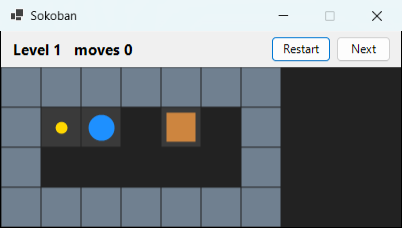
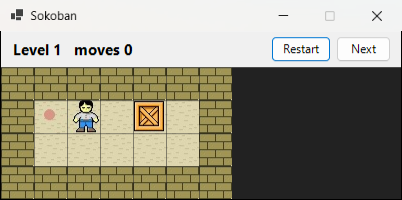
Sokoban: the squares are the pictures of ring/applications/sokoban (empty, wall, player, door, box, box on door; 33 pixels each); checks; new screenshot

diff --git a/docs/gallery-apps.html b/docs/gallery-apps.html
@@ -3626,7 +3626,7 @@ newGame()
 	<span class="k">else</span>
 		oInfo.Text = <span class="s">"Game over - score "</span> + nScore + <span class="s">" (Space = new game)"</span>
 	<span class="k">ok</span>
-	oCanvas.<span class="f">show</span>()</code></pre></div></details></div></div><div class="item" id="sokoban"><div class="pic"><img src="img/shots/app-Sokoban.png" alt="Sokoban" loading="lazy"></div><div class="info"><h3>Sokoban</h3><p>Sokoban - push every box onto a target with the arrow keys (a port of ring/applications/sokoban) # wall   @ player   $ box   . target   * box on a target   + player on a target</p><div class="run"><code>cd samples/UsingDotNet/applications/Sokoban  then  ring Sokoban.ring</code></div><details><summary>Source code</summary><div class="code"><div class="bar"><span class="dots"><i></i><i></i><i></i></span><span>Ring</span><button class="copy" type="button">Copy</button></div><pre><code><span class="c"># Sokoban - push every box onto a target with the arrow keys (a port of ring/applications/sokoban)</span>
+	oCanvas.<span class="f">show</span>()</code></pre></div></details></div></div><div class="item" id="sokoban"><div class="pic"><img src="img/shots/app-Sokoban.png" alt="Sokoban" loading="lazy"></div><div class="info"><h3>Sokoban</h3><p>Sokoban - push every box onto a target with the arrow keys (a port of ring/applications/sokoban, with its pictures: the folder images) # wall   @ player   $ box   . target   * box on a target   + player on a target</p><div class="run"><code>cd samples/UsingDotNet/applications/Sokoban  then  ring Sokoban.ring</code></div><details><summary>Source code</summary><div class="code"><div class="bar"><span class="dots"><i></i><i></i><i></i></span><span>Ring</span><button class="copy" type="button">Copy</button></div><pre><code><span class="c"># Sokoban - push every box onto a target with the arrow keys (a port of ring/applications/sokoban, with its pictures: the folder images)</span>
 <span class="c">#   # wall   @ player   $ box   . target   * box on a target   + player on a target</span>
 
 <span class="k">load</span> <span class="s">"dotnet.ring"</span>
@@ -3636,7 +3636,7 @@ using {
 	<span class="s">"System.Windows.Forms"</span>
 }
 
-C_CELL = <span class="n">40</span>
+C_CELL = <span class="n">33</span>		<span class="c"># the size of the pictures in the folder images</span>
 
 aLevels = [
 	[<span class="s">"#######"</span>,
@@ -3663,7 +3663,9 @@ aMap = []		<span class="c"># list of strings</span>
 nPlayerColumn = <span class="n">0</span>
 nPlayerRow = <span class="n">0</span>
 nMoves = <span class="n">0</span>
+aImages = []		<span class="c"># [tile, picture] for every kind of square: loaded once</span>
 
+loadImages()
 oForm = <span class="f">uiForm</span>(<span class="s">"Sokoban"</span>,<span class="n">400</span>,<span class="n">300</span>)
 oForm {
 	KeyPreview = <span class="k">True</span>
@@ -3682,6 +3684,28 @@ loadLevel(<span class="n">1</span>)
 <span class="f">uiRun</span>(oForm)
 
 <span class="c"># --------------------------------------------------------------------------</span>
+
+<span class="c"># the pictures are in the folder images next to the program</span>
+<span class="k">func</span> <span class="f">loadImages</span>
+
+	cFolder = <span class="s">""</span>
+	<span class="k">if</span> len(sysargv) &gt; <span class="n">1</span>
+		cScript = substr(sysargv[<span class="n">2</span>],<span class="s">"\\"</span>,<span class="s">"/"</span>)
+		<span class="k">for</span> nPos = len(cScript) <span class="k">to</span> <span class="n">1</span> <span class="k">step</span> -<span class="n">1</span>
+			<span class="k">if</span> cScript[nPos] = <span class="s">"/"</span>
+				cFolder = left(cScript,nPos)
+				<span class="k">exit</span>
+			<span class="k">ok</span>
+		<span class="k">next</span>
+	<span class="k">ok</span>
+	aImages = []
+	<span class="k">for</span> aTile <span class="k">in</span> [[<span class="s">" "</span>,<span class="s">"empty"</span>],[<span class="s">"#"</span>,<span class="s">"wall"</span>],[<span class="s">"@"</span>,<span class="s">"player"</span>],[<span class="s">"+"</span>,<span class="s">"player"</span>],[<span class="s">"."</span>,<span class="s">"door"</span>],[<span class="s">"$"</span>,<span class="s">"box"</span>],[<span class="s">"*"</span>,<span class="s">"boxondoor"</span>]]
+		aImages + [aTile[<span class="n">1</span>],<span class="k">new</span> <span class="t">Bitmap</span>(cFolder + <span class="s">"images/"</span> + aTile[<span class="n">2</span>] + <span class="s">".jpg"</span>,<span class="n">0</span>)]
+	<span class="k">next</span>
+
+<span class="k">func</span> <span class="f">imageOf</span> cTile
+
+	<span class="k">return</span> aImages[find(aImages,cTile,<span class="n">1</span>)][<span class="n">2</span>]
 
 <span class="k">func</span> <span class="f">loadLevel</span> nNumber
 
@@ -3813,24 +3837,7 @@ loadLevel(<span class="n">1</span>)
 	oCanvas.<span class="f">clear</span>(<span class="s">"#222222"</span>)
 	<span class="k">for</span> nRow = <span class="n">1</span> <span class="k">to</span> len(aMap)
 		<span class="k">for</span> nColumn = <span class="n">1</span> <span class="k">to</span> len(aMap[nRow])
-			nX = (nColumn - <span class="n">1</span>) * C_CELL
-			nY = (nRow - <span class="n">1</span>) * C_CELL
-			cTile = aMap[nRow][nColumn]
-			<span class="k">if</span> cTile = <span class="s">"#"</span>
-				oCanvas.<span class="f">fillRect</span>(nX,nY,C_CELL - <span class="n">1</span>,C_CELL - <span class="n">1</span>,<span class="s">"SlateGray"</span>)
-			<span class="k">but</span> cTile != <span class="s">" "</span>
-				oCanvas.<span class="f">fillRect</span>(nX,nY,C_CELL - <span class="n">1</span>,C_CELL - <span class="n">1</span>,<span class="s">"#3a3a3a"</span>)
-			<span class="k">ok</span>
-			<span class="k">if</span> isTarget(cTile)
-				oCanvas.<span class="f">fillCircle</span>(nX + C_CELL / <span class="n">2</span>,nY + C_CELL / <span class="n">2</span>,<span class="n">6</span>,<span class="s">"Gold"</span>)
-			<span class="k">ok</span>
-			<span class="k">if</span> cTile = <span class="s">"$"</span>
-				oCanvas.<span class="f">fillRect</span>(nX + <span class="n">5</span>,nY + <span class="n">5</span>,C_CELL - <span class="n">11</span>,C_CELL - <span class="n">11</span>,<span class="s">"Peru"</span>)
-			<span class="k">but</span> cTile = <span class="s">"*"</span>
-				oCanvas.<span class="f">fillRect</span>(nX + <span class="n">5</span>,nY + <span class="n">5</span>,C_CELL - <span class="n">11</span>,C_CELL - <span class="n">11</span>,<span class="s">"ForestGreen"</span>)
-			<span class="k">but</span> cTile = <span class="s">"@"</span> <span class="k">or</span> cTile = <span class="s">"+"</span>
-				oCanvas.<span class="f">fillCircle</span>(nX + C_CELL / <span class="n">2</span>,nY + C_CELL / <span class="n">2</span>,<span class="n">13</span>,<span class="s">"DodgerBlue"</span>)
-			<span class="k">ok</span>
+			oCanvas.oGraphics.<span class="f">DrawImage</span>([ :image = imageOf(aMap[nRow][nColumn]), :x = (nColumn - <span class="n">1</span>) * C_CELL, :y = (nRow - <span class="n">1</span>) * C_CELL, :width = C_CELL, :height = C_CELL ])
 		<span class="k">next</span>
 	<span class="k">next</span>
 	<span class="k">if</span> boxesLeft() = <span class="n">0</span>
